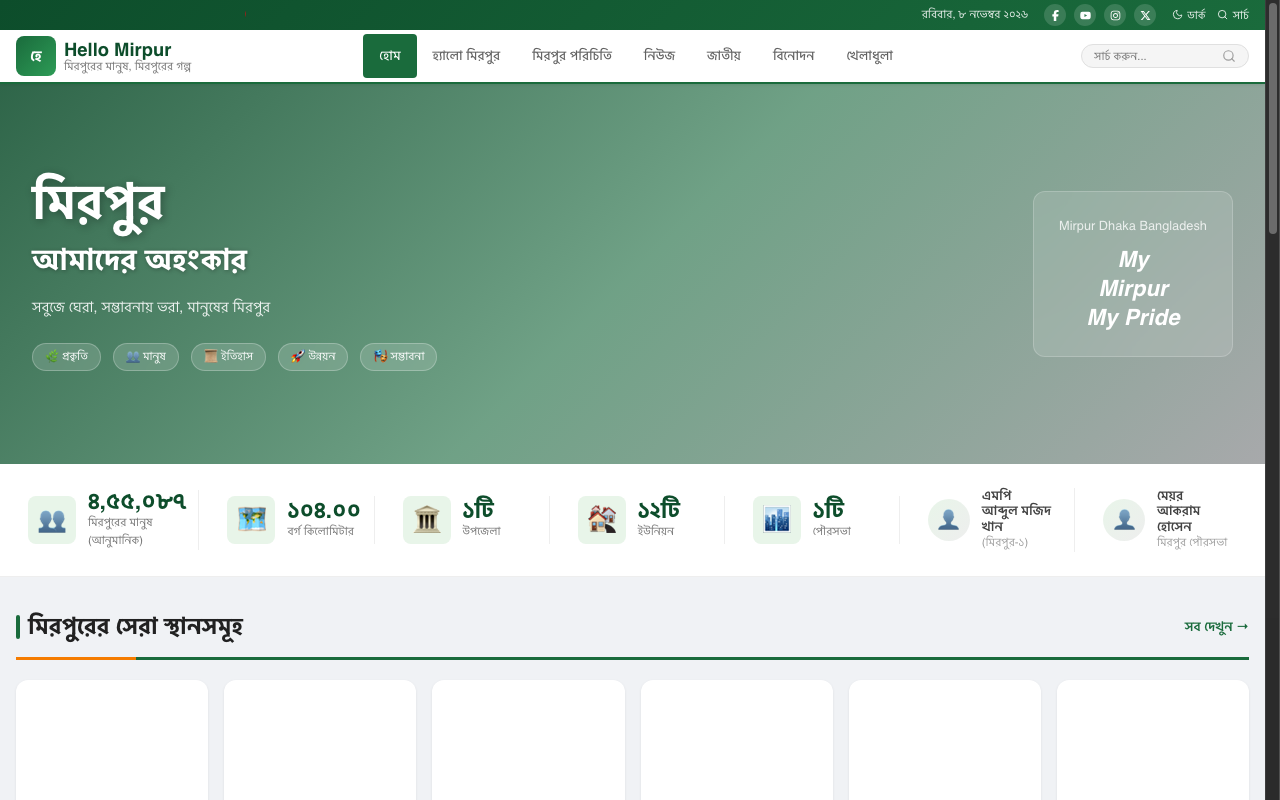
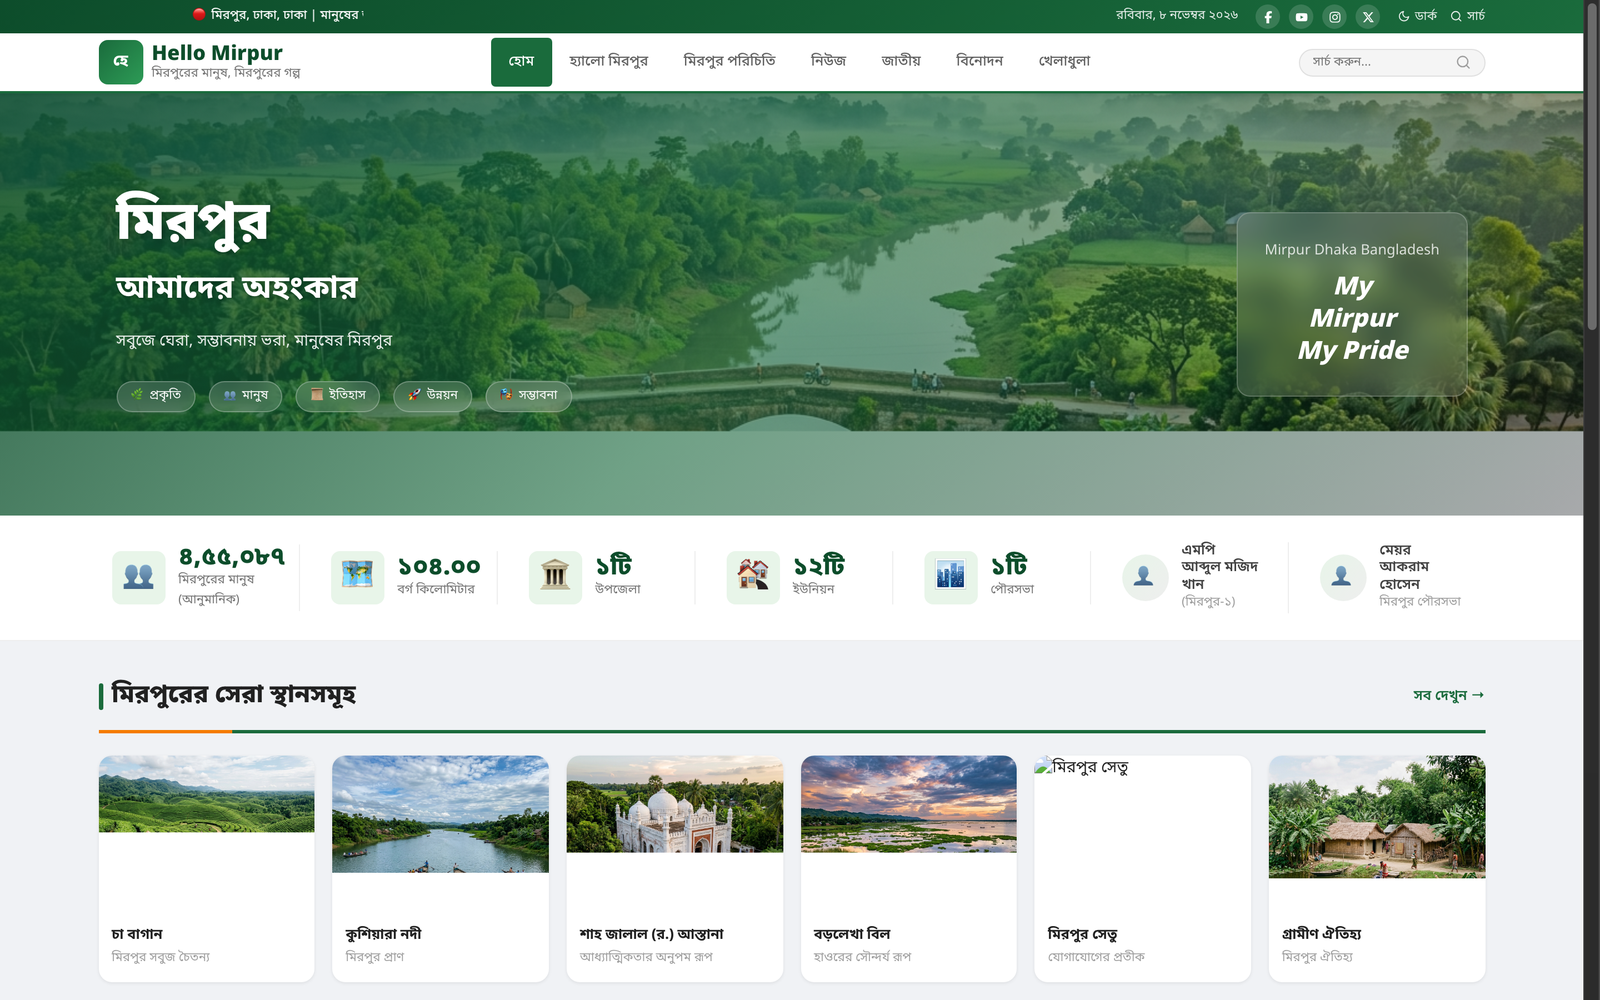
feat: integrate real social profile pictures and high-res loaded website snapshots

diff --git a/src/App.jsx b/src/App.jsx
@@ -73,7 +73,7 @@ const socialShowcaseCards = [
     theme: 'card-tiktok',
     url: 'https://www.tiktok.com/@musa_emon',
     actionText: 'Watch on TikTok',
-    image: '/musa-emon.jpeg',
+    image: '/social-tiktok.jpg',
     tag: '#MusaEmon'
   },
   {
@@ -86,7 +86,7 @@ const socialShowcaseCards = [
     theme: 'card-fb',
     url: 'https://www.facebook.com/share/1Gdt8hxZuN/?mibextid=wwXIfr',
     actionText: 'Connect on FB',
-    image: '/musa-emon.jpeg',
+    image: '/social-fb.jpg',
     tag: 'Daily Thoughts'
   },
   {
@@ -99,7 +99,7 @@ const socialShowcaseCards = [
     theme: 'card-insta',
     url: 'https://www.instagram.com/musa___emon?rpxt=MTMyeG9kb3NwZHRpZg%3D%3D&utm_source=qr',
     actionText: 'Follow on IG',
-    image: '/musa-emon.jpeg',
+    image: '/social-insta.jpg',
     tag: 'Visual Life'
   },
   {
@@ -112,7 +112,7 @@ const socialShowcaseCards = [
     theme: 'card-wa',
     url: 'https://wa.me/96878147442?text=Hello%20Musa%20Emon',
     actionText: 'Chat WhatsApp',
-    image: '/musa-emon.jpeg',
+    image: '/social-musa-avatar.jpg',
     tag: 'Direct Chat'
   },
   {
@@ -125,7 +125,7 @@ const socialShowcaseCards = [
     theme: 'card-community',
     url: '#ventures',
     actionText: 'Explore Network',
-    image: '/musa-emon.jpeg',
+    image: '/social-musa-channel-banner.jpg',
     tag: 'Global Hub'
   }
 ];

diff --git a/src/index.css b/src/index.css
@@ -603,8 +603,9 @@ ul {
   width: 100%;
   height: 100%;
   object-fit: cover;
+  object-position: center 22%;
   transition: transform 0.5s ease;
-  filter: contrast(1.05) brightness(0.9);
+  filter: contrast(1.05) brightness(0.92);
 }
 
 .social-showcase-card:hover .social-card-img {
